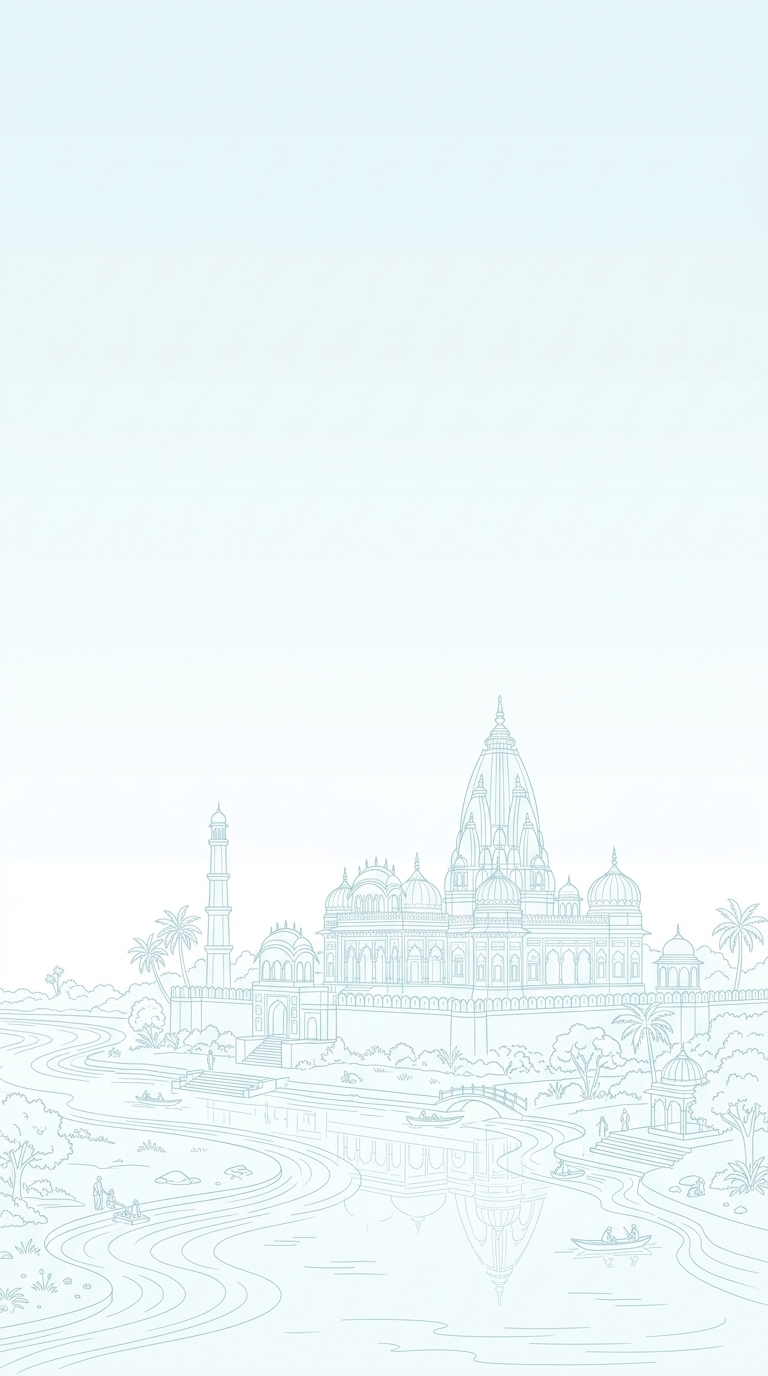
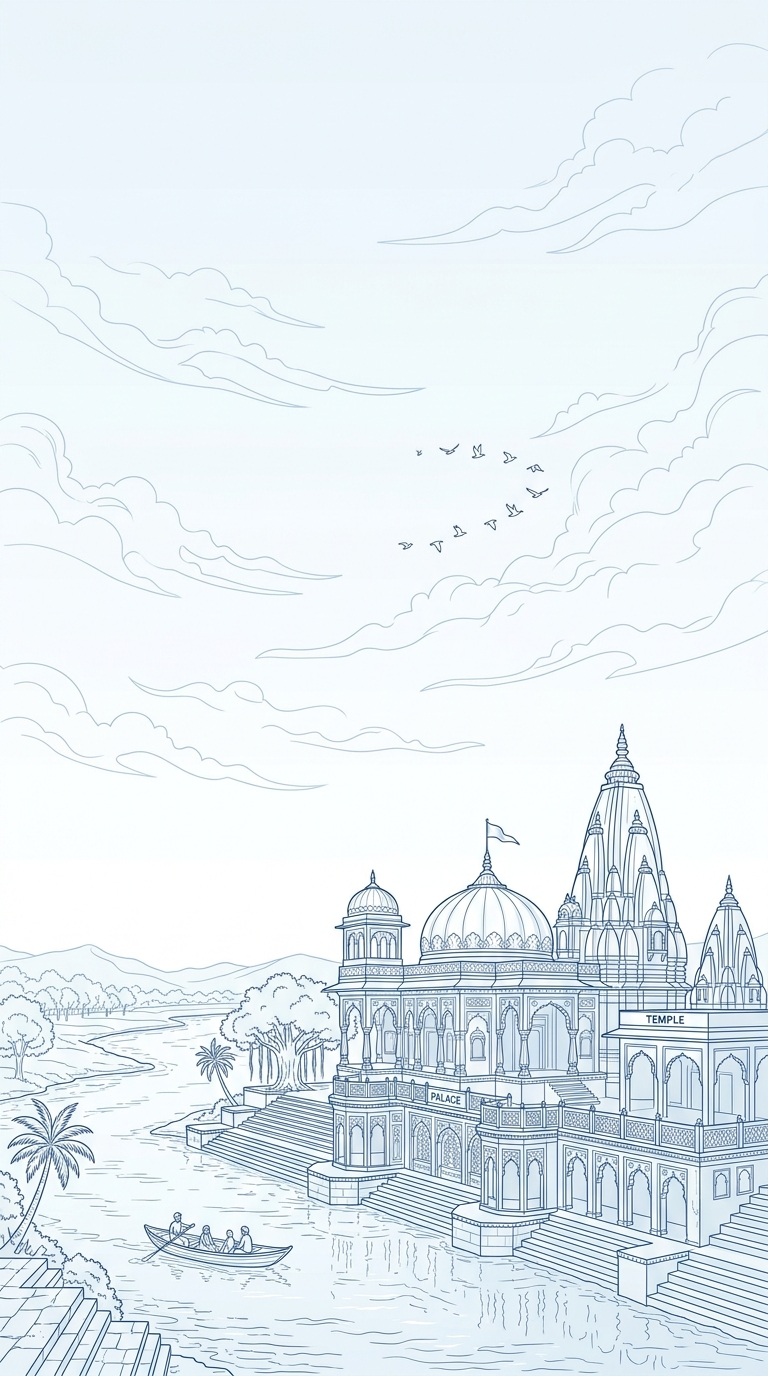
Update sidebar background to include clouds and increase opacity

diff --git a/Nigrani/src/components/PublicSidebar.tsx b/Nigrani/src/components/PublicSidebar.tsx
@@ -34,7 +34,7 @@ export function PublicSidebar() {
           backgroundSize: "cover",
           backgroundPosition: "left bottom",
           backgroundRepeat: "no-repeat",
-          opacity: 0.6,
+          opacity: 0.85,
         }}
       />
       {/* Subtle white overlay so content stays readable */}
